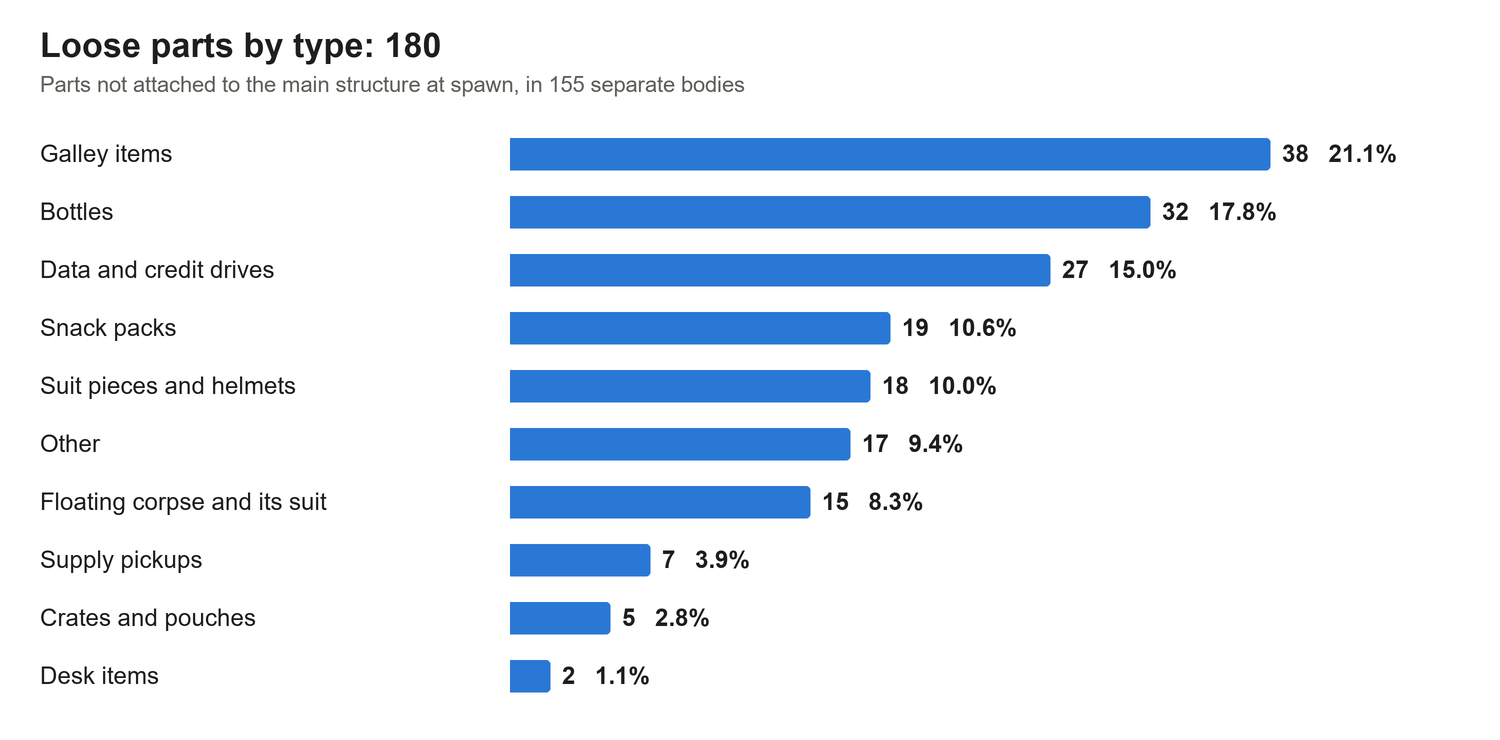
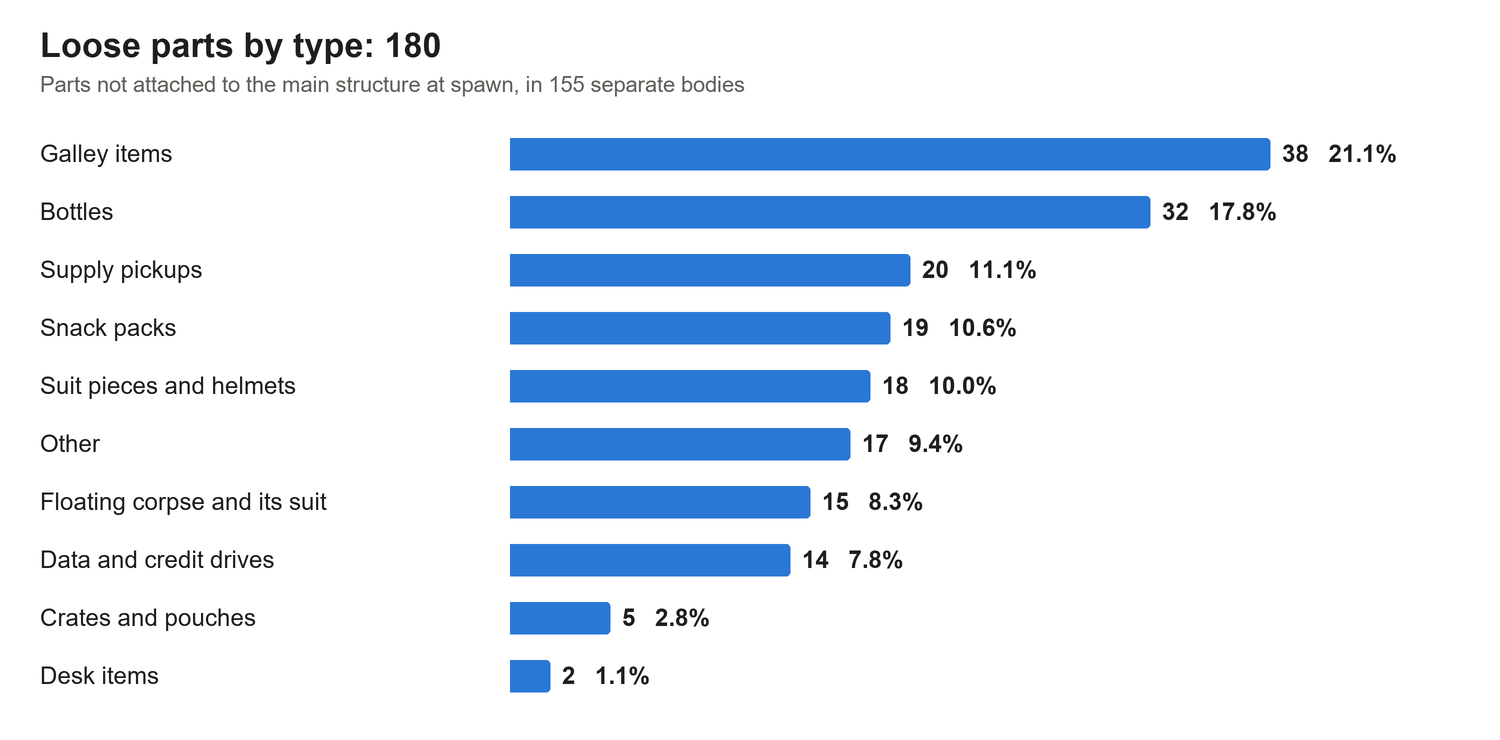
MCRN Corvette docs: v0.9.9 statistics and charts, ship pictures and 32 GB recommendation in the description

diff --git a/Docs/Tachi_Ship_Statistics.md b/Docs/Tachi_Ship_Statistics.md
@@ -2,7 +2,7 @@
 
 A custom salvage ship for Hardspace: Shipbreaker, modeled on the MCRN Corvette-class light frigate *Tachi* from *The Expanse*.
 
-Version 0.9.8, 21 November 2026. Figures marked v0.9.8 are from loads of that build on 21 November: the MCRN Tachi as a normal ship and the Rocinante as a ghost ship. The category, section and loose-part tables are from a census of the Rocinante on this build, with the 106 furniture parts the MCRN Tachi has in addition added in. The Gas Hauler was not loaded on this build; its figures are still from the v0.9.7 builds of 20 November 2026. Base ship ("MCRN Tachi") part figures are from the build of 20 November, 21:52 (the release build); Gas variant ("Beratnas Gas Hauler") part figures are from the load of 20 November, 19:59, and are marked where the two differ in date. "Measured" means taken from the game or the editor on that build. "Estimate" means calculated, with the method given.
+Version 0.9.9, 22 November 2026. Figures marked v0.9.9 are the v0.9.8 measurements carried forward by the changes made since, counted in the ship's files: the MCRN Tachi has the same parts (20 data drives became other pickups), and the Rocinante has 7 fewer (its railgun adds 9; 4 hull parts and 3 double terminals of 4 parts each make way for it). Two loads of 22 November check them: the Rocinante logged 5,097 parts, as calculated, and the Gas Hauler 5,687. The v0.9.8 measurements are from loads of 21 November: the MCRN Tachi as a normal ship and the Rocinante as a ghost ship. The category, section and loose-part tables are from a census of the Rocinante on the v0.9.8 build, with the furniture parts the MCRN Tachi has in addition added in. The Gas Hauler's other figures are still from the v0.9.7 builds of 20 November 2026. Base ship ("MCRN Tachi") part figures are from the build of 20 November, 21:52 (the release build); Gas variant ("Beratnas Gas Hauler") part figures are from the load of 20 November, 19:59, and are marked where the two differ in date. "Measured" means taken from the game or the editor on that build. "Estimate" means calculated, with the method given.
 
 ## At a glance
 
@@ -11,7 +11,7 @@ Version 0.9.8, 21 November 2026. Figures marked v0.9.8 are from loads of that bu
 | Length (engine bell to antenna tip) | 133.7 m |
 | Beam (port to starboard, over the gun mounts) | 54.6 m (Gas variant, over the tank racks: 67.2 m) |
 | Height (dorsal to ventral) | 46.3 m (Gas variant: 55.1 m) |
-| Parts counted at load | 5,210 (MCRN Tachi, v0.9.8) · 5,104 (Rocinante, v0.9.8) · 5,866 (Gas variant, v0.9.7) |
+| Parts counted at load | 5,210 (MCRN Tachi) · 5,097 (Rocinante) · 5,687 (Gas variant), all v0.9.9 |
 | As a ghost ship | 59 Protomolecule nodes and 251 growth patches more (see Ghost ship content) |
 | Cut points | 254 (Gas variant: 333) |
 | Loose items at spawn | 180 (props, pickups and one floating corpse, in one of six places) |
@@ -43,6 +43,7 @@ Measured on the test PC, from choosing the ship to being able to move:
 | 20 Nov, v0.9.7 | 55.7 s | 38.0 s | 17.8 s |
 | 21 Nov, v0.9.8, MCRN Tachi | 53.8 s | 37.3 s | 16.4 s |
 | 21 Nov, v0.9.8, Rocinante as a ghost ship | 68.1 s | 50.2 s | 17.9 s |
+| 22 Nov, v0.9.9, Gas variant | 71.3 s | 36.9 s | 34.4 s |
 
 The v0.9.5 run had the mod's part-data capture switched on, which adds load time, so it overstates a normal load.
 
@@ -67,8 +68,8 @@ If the game sits on the loading screen for more than ten minutes, treat it as a 
 
 | | |
 |---|---|
-| Live parts at spawn (every piece the game simulates) | 5,212 (v0.9.8: 5,106 counted on the Rocinante, plus 106) |
-| Parts counted by the game's joint pass | 5,210 (v0.9.8; 5,208 on v0.9.7) |
+| Live parts at spawn (every piece the game simulates) | 5,212 (v0.9.9, unchanged from v0.9.8: 5,106 counted on the Rocinante, plus 106) |
+| Parts counted by the game's joint pass | 5,210 (v0.9.9 and v0.9.8; 5,208 on v0.9.7) |
 | Objects in the ship that never become parts | 276 (see below) |
 | Largest mesh | `PDC_Mid_Port_Nest_02`, 18,291 vertices |
 | Part ceiling at that mesh size | 7,337 |
@@ -91,16 +92,16 @@ If the game sits on the loading screen for more than ten minutes, treat it as a 
 
 | Category | Parts | Share |
 |---|---|---|
-| Furniture and props | 1,714 | 32.9 % |
+| Furniture and props | 1,708 | 32.8 % |
 | Decks, walls, stairs and doors | 1,013 | 19.4 % |
 | Pipes and cables | 825 | 15.8 % |
-| Machinery, power and weapons | 749 | 14.4 % |
+| Machinery, power and weapons | 755 | 14.5 % |
 | Cut points | 254 | 4.9 % |
 | Lights | 246 | 4.7 % |
 | Hull panels | 207 | 4.0 % |
 | Structural frame | 204 | 3.9 % |
 
-The category table is from the v0.9.8 census of the Rocinante (1,608 furniture parts and the same figures in every other row), with the MCRN Tachi's 106 extra furniture parts added: its extra bunks, galley tables, chairs and bottles. The section tables are from the same census, with the 106 parts added to the interior, where they all are. Four pipe pieces at the fore thermal vents carry the cut point type so that they do not joint to the vents; they are counted here as pipe.
+The category table is from the v0.9.8 census of the Rocinante (1,608 furniture parts and the same figures in every other row), with the MCRN Tachi's 106 extra furniture parts added: its extra bunks, galley tables, chairs and bottles. In v0.9.9, 20 data drives became other pickups; the 6 thruster fuel cans among them count as machinery, as the ship's other fuel cans do, so 6 parts move from furniture to machinery. The section tables are from the same census, with the 106 parts added to the interior, where they all are. Four pipe pieces at the fore thermal vents carry the cut point type so that they do not joint to the vents; they are counted here as pipe.
 
 Categories are assigned from each part's joint type and name. The rules were rewritten for v0.9.5, so these shares are not comparable with earlier versions of this document.
 
@@ -136,12 +137,12 @@ All 180 loose parts are items meant to float or be picked up:
 |---|---|---|
 | Galley items (bowls, food, coffee maker, vending parts) | 38 | 21.1 % |
 | Bottles | 32 | 17.8 % |
-| Data and credit drives | 27 | 15.0 % |
+| Supply pickups (oxygen, thruster fuel, med and patch kits) | 20 | 11.1 % |
 | Snack packs | 19 | 10.6 % |
 | Suit pieces and helmets | 18 | 10.0 % |
 | Other (ten spare-part pickups, wall chestplates, a repair kit, a toy, two salvage bay objects) | 17 | 9.4 % |
 | Floating corpse and its suit | 15 | 8.3 % |
-| Supply pickups (oxygen, thruster fuel, med and patch kits) | 7 | 3.9 % |
+| Data and credit drives | 14 | 7.8 % |
 | Crates and pouches | 5 | 2.8 % |
 | Desk items | 2 | 1.1 % |
 
@@ -215,9 +216,9 @@ The ship comes in three versions, each listed as its own ship in Free Play and o
 |---|---|---|---|
 | What differs | | Colors as an independent warship, Belter posters, less furniture | Colors, 24 external tanks on trusses, point defense cannons removed, own bay pose, Belter posters, less furniture |
 | How it is picked | Own ship entry | Own ship entry | Own ship entry |
-| Live parts at spawn | 5,212 (v0.9.8, see Parts) | 5,106 (v0.9.8 census) | 5,868 (v0.9.7, measured before 20 objects were switched off) |
-| Parts counted by the joint pass | 5,210 (v0.9.8) | 5,104 as a normal ship, 5,163 as a ghost ship (v0.9.8) | 5,866 (v0.9.7, not re-measured) |
-| Headroom under the part ceiling | 2,127 | 2,233 (2,174 as a ghost ship) | 1,471 |
+| Live parts at spawn | 5,212 (v0.9.9, see Parts) | 5,099 (v0.9.9: the v0.9.8 census of 5,106, less 7) | 5,868 (v0.9.7, measured before 20 objects were switched off) |
+| Parts counted by the joint pass | 5,210 (v0.9.9) | 5,097 as a normal ship, 5,156 as a ghost ship (v0.9.9) | 5,687 (v0.9.9, load of 22 November) |
+| Headroom under the part ceiling | 2,127 | 2,240 (2,181 as a ghost ship) | 1,650 |
 | Main structure | 5,032 | 4,929 | 5,684 |
 | Loose parts | 180 in 155 bodies | 177 in 152 bodies | 184 in 159 bodies |
 | Cut points | 254 | 254 | 333 |
@@ -305,7 +306,7 @@ The game works out a part's mass from its material density and the volume of its
 | B_External | Engineering hull, support ring, engine | 257 | 54.4 × 28.0 × 46.3 | 70.9 | 32 |
 | B_Internal | Aft airlock, cryogenics, fusion reactor | 464 | 28.8 × 23.1 × 21.0 | 34.6 | 14 |
 
-Sizes and masses were measured on an earlier 18 November build and not re-measured since; the changes since then (a reactor mount of 12 parts, two roof generators, spare-part pickups, the inside plates) do not move them noticeably. The live-part and cut-point columns are from the v0.9.8 census. Section masses carry the same caveat as the total. The interior figure is the least complete, because it is mostly stock assemblies.
+Sizes and masses were measured on an earlier 18 November build and not re-measured since; the changes since then (a reactor mount of 12 parts, two roof generators, spare-part pickups, the inside plates) do not move them noticeably. The live-part and cut-point columns are from the v0.9.8 census; v0.9.9 does not change them on the MCRN Tachi. Section masses carry the same caveat as the total. The interior figure is the least complete, because it is mostly stock assemblies.
 
 ---
 
@@ -396,6 +397,7 @@ The lore gives performance figures for the Epstein drive in general, not for thi
 | Dimensions, per-section sizes | Part bounds in the Unity editor |
 | Volume | Calculated from part bounds, as described above |
 | Mass | Calculated with the game's own formula from mesh volume and material density, plus game-reported masses for stock parts |
+| v0.9.9 part counts | The v0.9.8 counts, changed by the objects added, removed and switched off in the ship's files since: none on the MCRN Tachi, 7 fewer on the Rocinante. Checked against the part counts the PartInfoLogger mod logged on two loads of 22 November: Rocinante 5,097, Gas variant 5,687. Loose parts by type: 20 floating data drives became 7 credit drives, 7 oxygen cans and 6 thruster fuel cans |
 | v0.9.8 part counts and load times | Logged by the PartInfoLogger mod on loads of 21 November: MCRN Tachi as a normal ship, Rocinante as a ghost ship. The Rocinante normal-ship count is the ghost count less its 59 nodes |
 | Ghost ship content | Counted from the spawn points in the ship prefab |
 | v0.9.8 categories, loose parts, main structure | The mod's spawn census of the Rocinante as a normal ship, 21 November, with exact joints between parts. MCRN Tachi figures add the 106 furniture parts (3 of them loose bottles) that the Rocinante leaves out |
